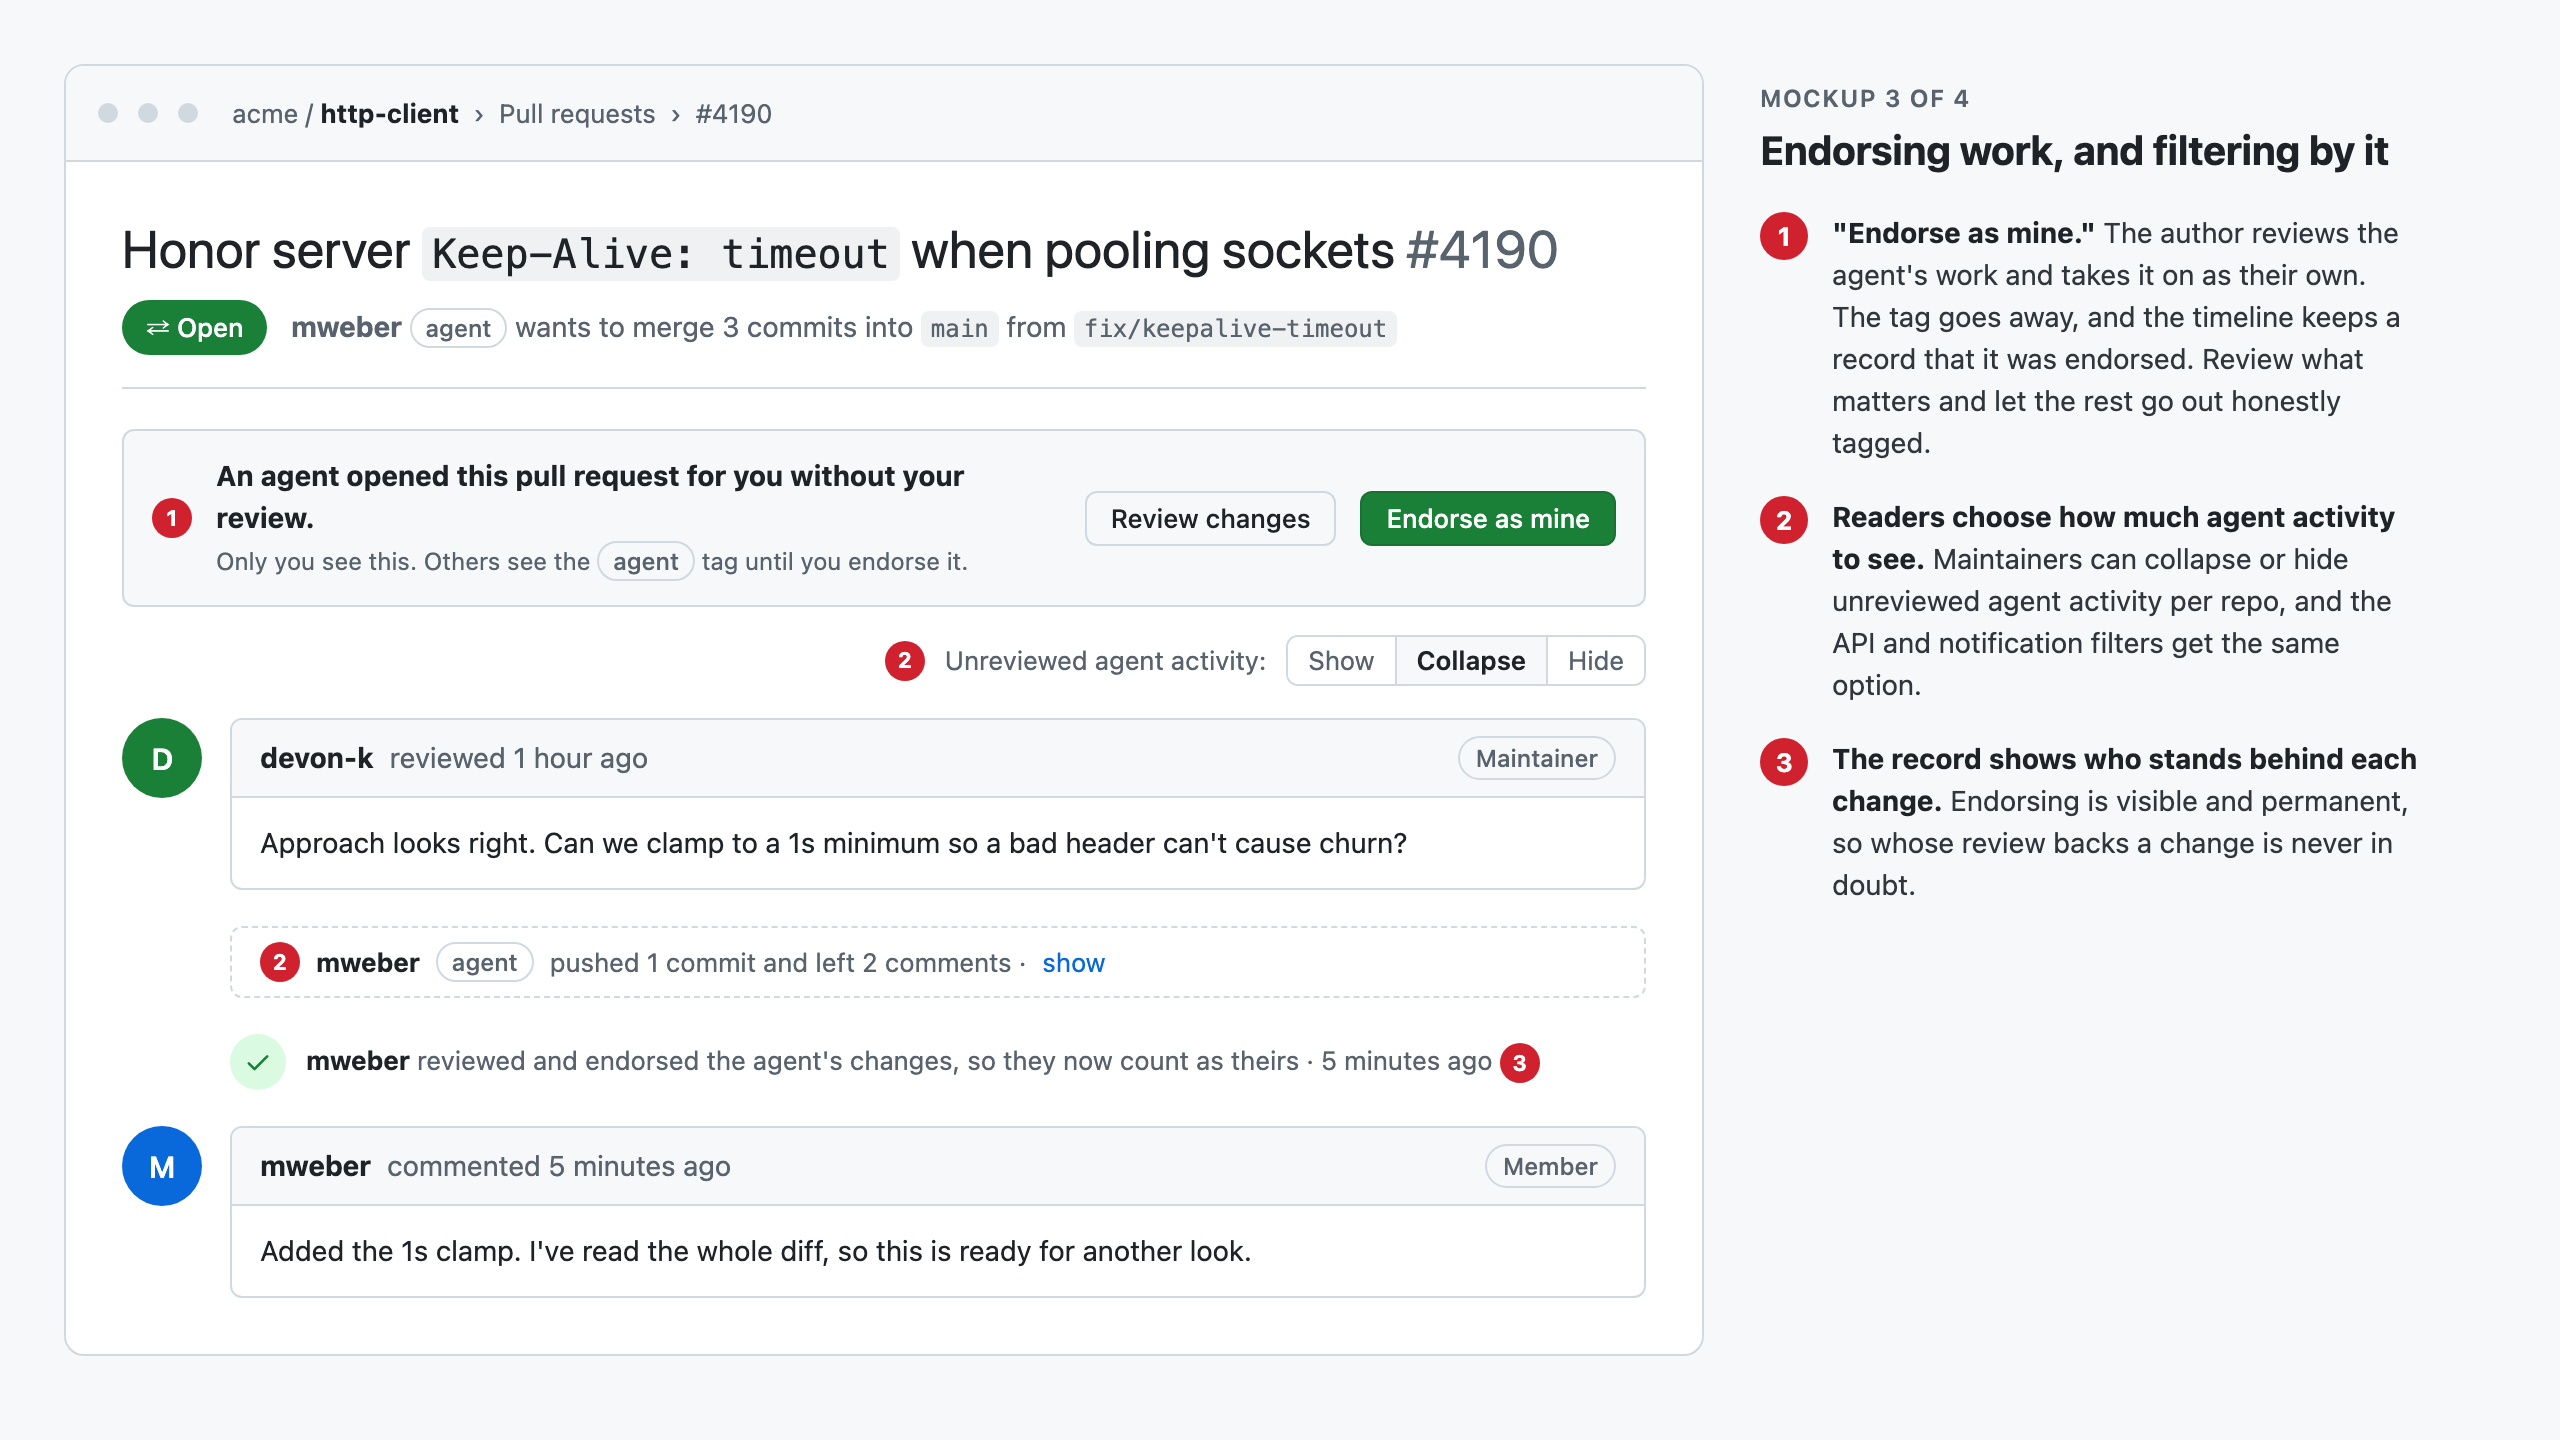
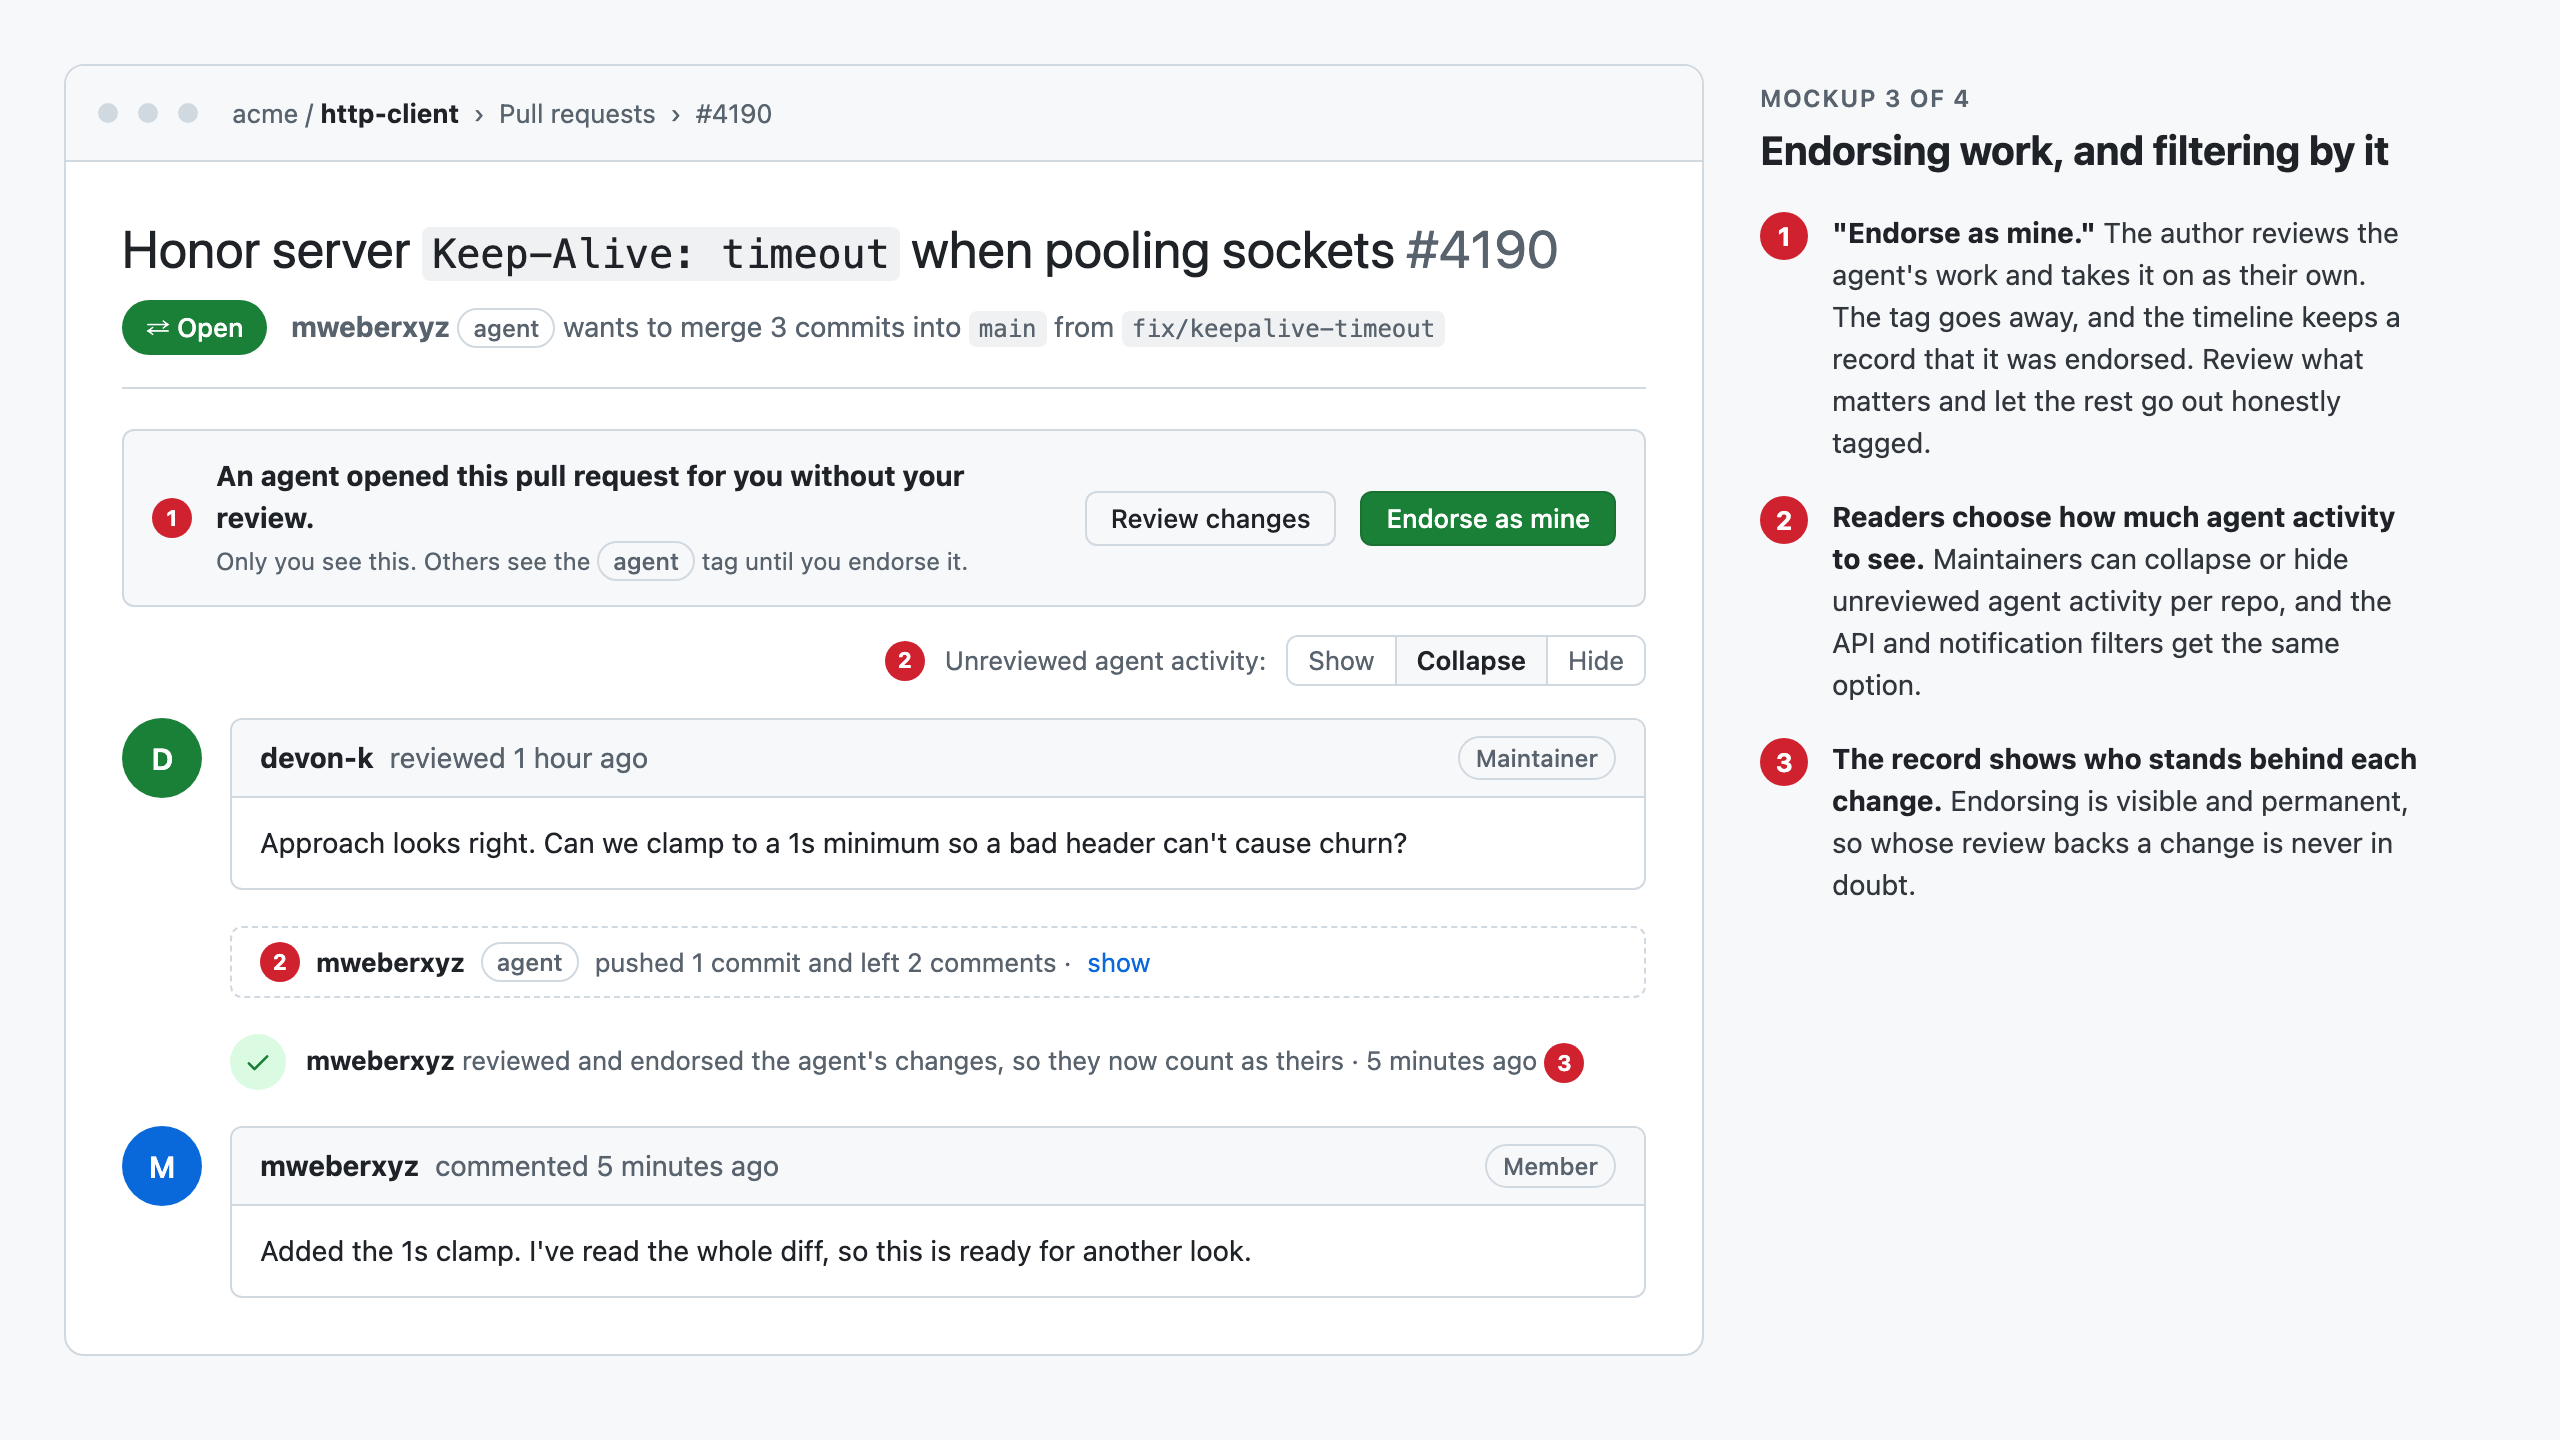
Use Matt's real identity: mweber -> mweberxyz everywhere
Update the demo, mockups, and OG image to the real handle, credit
Matt Weber in the footer, and re-render all PNGs. Widen the demo
container so the one-row controls still fit with the longer handle.

diff --git a/site/index.html b/site/index.html
@@ -55,8 +55,9 @@ section { padding: 56px 0; }
 .sec-head .eyebrow { font-size: 13px; font-weight: 600; letter-spacing: .08em; text-transform: uppercase; color: var(--ink-3); }
 h2 { font-size: clamp(26px, 3.6vw, 36px); line-height: 1.15; letter-spacing: -.015em; margin: 6px 0 12px; }
 .sec-head p { color: var(--ink-2); margin: 0; }
-.stage { max-width: 1040px; margin: 0 auto; padding: 12px 0 40px; display: flex; flex-direction: column; }
-@media (max-width: 1100px) { .stage .toolbar { order: 3; margin: 16px 0 0; flex-wrap: wrap; align-items: flex-start; } .toolbar .modegrp { width: 100%; } .toolbar .grp { flex-wrap: wrap; flex-shrink: 1; max-width: 100%; } .toolbar .custom { position: static; box-shadow: none; border: 0; padding: 0; background: none; flex-basis: 100%; margin-left: 2px; } .toolbar .custom.off { display: none; } .stage .more { order: 4; } }
+main.wrap { max-width: 1140px; }
+.stage { max-width: 1076px; margin: 0 auto; padding: 12px 0 40px; display: flex; flex-direction: column; }
+@media (max-width: 1150px) { .stage .toolbar { order: 3; margin: 16px 0 0; flex-wrap: wrap; align-items: flex-start; } .toolbar .modegrp { width: 100%; } .toolbar .grp { flex-wrap: wrap; flex-shrink: 1; max-width: 100%; } .toolbar .custom { position: static; box-shadow: none; border: 0; padding: 0; background: none; flex-basis: 100%; margin-left: 2px; } .toolbar .custom.off { display: none; } .stage .more { order: 4; } }
 @media (max-width: 720px) { .prompt { min-height: 0; margin-bottom: 16px; } .prompt h1 { font-size: 25px; } .prompt p { font-size: 15.5px; } }
 .prompt { margin: 8px 0 22px; }
 .prompt h1 { font-size: clamp(26px, 4.2vw, 40px); line-height: 1.12; letter-spacing: -.02em; margin: 0 0 10px; }
@@ -245,15 +246,15 @@ footer { padding: 40px 0 56px; color: var(--ink-3); font-size: 14px; text-align:
 </section>
 
 <footer class="wrap">
-  A proposal by <a class="js-author" href="#">AUTHOR_NAME</a>. Concept mockups only. Not affiliated with or endorsed by GitHub.<br>
+  A proposal by <a class="js-author" href="https://github.com/github-user-a">Matt Weber</a>. Concept mockups only. Not affiliated with or endorsed by GitHub.<br>
   Drafted with an AI agent and reviewed by a human, which is the workflow this proposal is meant to make visible.
 </footer>
 
 <script>
 // ---- Fill these in at launch ----
 const REQUEST_URL = "https://github.com/orgs/community/discussions/REPLACE_ME";
-const AUTHOR_URL  = "https://github.com/REPLACE_ME";
-const AUTHOR_NAME = "REPLACE_ME";
+const AUTHOR_URL  = "https://github.com/github-user-a";
+const AUTHOR_NAME = "Matt Weber";
 // ---------------------------------
 document.querySelectorAll(".js-request").forEach(a => { a.href = REQUEST_URL; a.target = "_blank"; a.rel = "noopener"; });
 document.querySelectorAll(".js-author").forEach(a => { a.href = AUTHOR_URL; a.textContent = AUTHOR_NAME; });

diff --git a/CLAUDE.md b/CLAUDE.md
@@ -12,9 +12,9 @@
 > - **Secrets:** tokens, keys, cookies, or anything that looks like one.
 > - **Image metadata.** PNGs rendered with headless Chrome have none. Check any image that comes from somewhere else.
 >
-> **Already public, but still don't copy it into files:** Matt's GitHub email and the `mweberxyz` handle are public through Matt's GitHub activity, so commit authorship is fine as it is. Being public elsewhere is no reason to repeat them in repo content, so leave them out unless they serve the site (for example `AUTHOR_URL`).
+> **Matt's identity:** the site deliberately uses Matt's real name and handle (`mweberxyz`) everywhere it shows a user. Matt's GitHub email is public too, but don't repeat it in repo content.
 >
-> **Public by design:** Matt's first name, the placeholder `mweber` handle in the mockups, the five cited repos, and the drafts in `outreach/` and `LAUNCH.md`. If the repo goes public before launch, those drafts are visible early, so time the visibility switch with launch.
+> **Public by design:** Matt's name (Matt Weber) and real GitHub handle `mweberxyz`, used on purpose in the mockups, the demo, and the site footer, the five cited repos, and the drafts in `outreach/` and `LAUNCH.md`. If the repo goes public before launch, those drafts are visible early, so time the visibility switch with launch.
 >
 > **Private context goes in `CLAUDE.local.md`** (gitignored). Machine paths, tool locations, environment notes, and private working context belong there, never here. Read it at the start of every session if it exists.
 >
@@ -53,7 +53,7 @@ Everything is prepared first and launched together. See `LAUNCH.md` for the orde
 | Path | What |
 |---|---|
 | `request/feature-request.md` | GitHub discussion text. Has `SITE_URL` placeholder and image slots. |
-| `site/index.html` | The landing page: one self-contained file with inline CSS and JS, light and dark themes. It **opens directly on the demo** (no hero): a GitHub-style thread with a "GitHub today | GitHub tomorrow" switch (no label above it), starting in "today" mode, which asks visitors to pick which of mweber's two comments mweber actually wrote, then reveals the answer and switches to "GitHub tomorrow" (tag, viewer, filter, and tag-style controls). **The thread must never move when switching today ↔ tomorrow or changing the tag style.** That's the point of the demo. To make that hold: the prompt is sized to its tallest message, hidden controls keep their space (`visibility`, not `display`), the "Mine" picker is a popover, and on phones the comment headers stay on one line (short timestamps, no Member badge or "via", which moves into the tooltip). At 1100px and up the controls sit in one row above the thread; below that they sit under it. Reset is next to the switch. URLs and author are set in constants at the bottom of the file. |
+| `site/index.html` | The landing page: one self-contained file with inline CSS and JS, light and dark themes. It **opens directly on the demo** (no hero): a GitHub-style thread with a "GitHub today | GitHub tomorrow" switch (no label above it), starting in "today" mode, which asks visitors to pick which of mweberxyz's two comments mweberxyz actually wrote, then reveals the answer and switches to "GitHub tomorrow" (tag, viewer, filter, and tag-style controls). **The thread must never move when switching today ↔ tomorrow or changing the tag style.** That's the point of the demo. To make that hold: the prompt is sized to its tallest message, hidden controls keep their space (`visibility`, not `display`), the "Mine" picker is a popover, and on phones the comment headers stay on one line (short timestamps, no Member badge or "via", which moves into the tooltip). At 1150px and up the controls sit in one row above the thread; below that they sit under it. Reset is next to the switch. URLs and author are set in constants at the bottom of the file. |
 | `site/request.html` | "View the full feature request" page. Renders `site/request.md` in the browser on every load (marked from jsdelivr), turning the `<!-- attach X.png -->` slots into the mockup images. Linked from the call-out card right below the demo and from the CTA on `index.html`. |
 | `site/request.md`, `site/mockups` | **Symlinks** to `../request/feature-request.md` and `../mockups`. The request page always shows the current text and mockups, so edit the originals and never these. |
 | `site/og.png` | 1200×630 link-preview image, rendered from `mockups/og-card.html`. |
@@ -84,8 +84,8 @@ Everything is prepared first and launched together. See `LAUNCH.md` for the orde
 
 ## Placeholders still to fill
 
-- `mweber` handle and `acme/http-client` repo in the mockups and demo (decide whether to use the real handle).
-- In `site/index.html`: `REQUEST_URL`, `AUTHOR_URL`, `AUTHOR_NAME`, and an absolute `og:image` URL.
+- `acme/http-client` repo in the mockups and demo (fictional, on purpose).
+- In `site/index.html`: `REQUEST_URL` and an absolute `og:image` URL.
 - In `site/request.html`: `REQUEST_URL` (keep it the same as in index.html) and an absolute `og:image` URL.
 - `SITE_URL` in `request/feature-request.md`; `SITE_URL` and `REQUEST_URL` in `outreach/reddit-post.md`.
 
@@ -115,6 +115,7 @@ Everything is prepared first and launched together. See `LAUNCH.md` for the orde
 - **2026-11-06:** Added a gitignored `CLAUDE.local.md` for private, cross-session context, and moved machine-specific notes into it.
 - **2026-11-06:** Re-signed all commits with Matt's GPG key (contents and author dates unchanged) and turned on signing for this repo.
 - **2026-11-06:** Landing page principle: the demo hooks people, and the full feature request is where they go next. Anything the request already covers well comes off the landing page. Removed "The proposal: four small pieces" and replaced it with a prominent "Read the full feature request" card right below the demo.
-- **2026-11-06:** Landing page now opens directly on the demo, to stand apart from generic AI-made landing pages (no big centered hero, kicker pill, or sidebar). The hook is a guess: two mweber comments look identical today, and one was never read by mweber. Picking one reveals the answer and the proposal's tag. Checked on desktop and phone, in light and dark.
+- **2026-11-06:** Landing page now opens directly on the demo, to stand apart from generic AI-made landing pages (no big centered hero, kicker pill, or sidebar). The hook is a guess: two mweberxyz comments look identical today, and one was never read by mweberxyz. Picking one reveals the answer and the proposal's tag. Checked on desktop and phone, in light and dark.
 - **2026-11-06:** Renamed the demo switch to "GitHub today | GitHub tomorrow" and removed the "Show it as" label.
 - **2026-11-06:** Removed all layout shift between GitHub today and GitHub tomorrow (prompt height, toolbar, header wrapping, color picker). Verified identical positions at 1280, 1024, and 375 px.
+- **2026-11-06:** Switched to Matt's real identity: every `mweber` is now `mweberxyz` (demo, mockups, OG image), and the footer credits Matt Weber with a link to github.com/mweberxyz. Re-rendered all PNGs. The longer handle needed a wider demo container (one-row controls from 1150px); re-verified no layout shift at 1280, 1024, and 375 px.

diff --git a/LAUNCH.md b/LAUNCH.md
@@ -6,14 +6,12 @@ The site and the GitHub discussion need to link to each other, so the order matt
 
 ## 0. Before launch day
 - [ ] Read through `request/feature-request.md`, `outreach/reddit-post.md`, and the site, and rewrite anything that doesn't sound like you.
-- [ ] Decide on the handle and repo used in the mockups (currently `mweber` and `acme/http-client`).
 - [ ] Choose where the site lives. GitHub Pages fits the topic: a repo such as `agent-tag` whose root contains the files in `site/`. A subdomain of your own site also works.
 - [ ] Read the r/ClaudeAI rules on self-promotion and post flair.
 - [ ] **Check for duplicates.** Search the GitHub changelog (github.blog/changelog) and community discussions for "agent", "on behalf of", and "AI attribution". If something has shipped, rethink the request. If a matching discussion already exists, support and link that one instead of filing a new one; the site and Reddit post just point to its URL.
 - [ ] Know that linking the five example issues/PRs from a GitHub discussion adds a "mentioned this" reference on each of them, so their maintainers will see it. That's probably welcome, but it is visible to them.
 
 ## 1. Deploy the site with placeholders
-- [ ] In `site/index.html`, set `AUTHOR_NAME` and `AUTHOR_URL` in the script block at the bottom. Leave `REQUEST_URL` for now.
 - [ ] Change `<meta property="og:image" content="og.png">` to the full URL, e.g. `https://you.github.io/agent-tag/og.png`. Link-preview scrapers need an absolute URL.
 - [ ] Deploy. Write down the site URL (**SITE_URL**).
 
